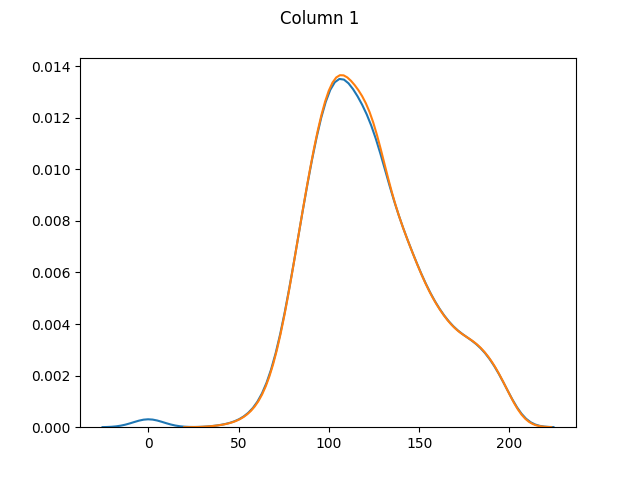
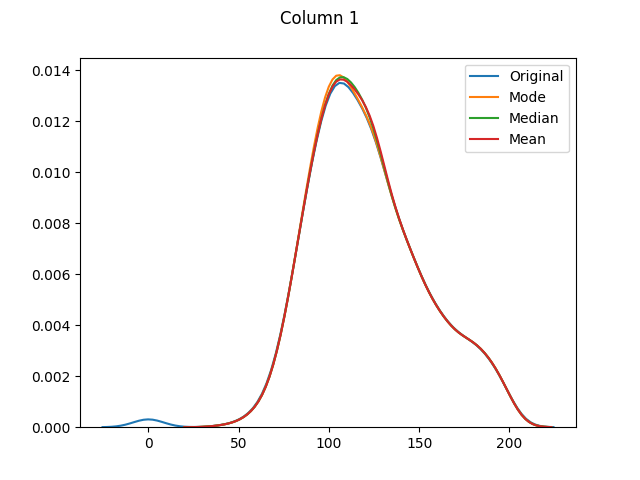
Fill missing data with mean, mode and median

diff --git a/missing_data.py b/missing_data.py
@@ -27,7 +27,7 @@ print("---------------------")
 print((dataset[[1,2,3,4,5,6,7]] == 0).sum())
 print
 
-# count the number of NaN values in each column
+# count the number of NaN values (using isnull) in each column
 print("Number of missing fields (original)")
 print("-----------------------------------")
 print(dataset.isnull().sum())
@@ -39,38 +39,56 @@ print("---------------------")
 print(dataset.describe())
 print
 
-fixed_dataset = dataset.copy()
+# Make a copy of the dataset so we can compare original & replaced
+replaced_dataset = dataset.copy()
 
 # mark zero values as NaN (missing)
-fixed_dataset[[1,2,3,4,5]] = fixed_dataset[[1,2,3,4,5]].replace(0, numpy.NaN)
+replaced_dataset[[1,2,3,4,5]] = replaced_dataset[[1,2,3,4,5]].replace(0, numpy.NaN)
 
 print("Number of missing fields (zero fields flagged as NaN)")
 print("-----------------------------------------------------")
-print(fixed_dataset.isnull().sum())
+print(replaced_dataset.isnull().sum())
 print
 
 # Show the stats of the dataset
 print("Statistics (pre-fill)")
 print("---------------------")
-print(fixed_dataset[[1,2,3,4,5]].describe())
+print(replaced_dataset[[1,2,3,4,5]].describe())
 print
 
+# Make copies of the dataset so we can compare them
+mean_dataset = replaced_dataset.copy()
+mode_dataset = replaced_dataset.copy()
+median_dataset = replaced_dataset.copy()
+
 # fill missing values with mean column values
-fixed_dataset.fillna(value=dataset.mean(), inplace=True)
+mean_dataset.fillna(value=replaced_dataset.mean(), inplace=True)
 
 # count the number of NaN values in each column
 print("Number of missing fields (post-fill)")
 print("------------------------------------")
-print(fixed_dataset.isnull().sum())
+print(mean_dataset.isnull().sum())
 print
 
 # Show the stats of the dataset
 print("Statistics (post-fill)")
 print("----------------------")
-print(fixed_dataset[[1,2,3,4,5]].describe())
+print(mean_dataset[[1,2,3,4,5]].describe())
+print
 
+# fill missing values with column mode value
+mode_dataset.fillna(value=replaced_dataset.mode(numeric_only=True).iloc[0], inplace=True)
+
+# fill missing values with column median value
+median_dataset.fillna(value=replaced_dataset.median(), inplace=True)
+
+# Use Seaborn to plot before & after graphs for columns 1 - 5
 for i in range(1, 6):
-    sb.distplot(dataset[[i]], hist=False)
-    sb.distplot(fixed_dataset[[i]], hist=False)
+    sb.distplot(dataset[[i]], hist=False, label='Original')
+    # Cannot plot datasets with NaN values
+    #sb.distplot(replaced_dataset[[i]], hist=False, label='Replaced')
+    sb.distplot(mode_dataset[[i]], hist=False, label='Mode')
+    sb.distplot(median_dataset[[i]], hist=False, label='Median')
+    sb.distplot(mean_dataset[[i]], hist=False, label='Mean')
     plt.suptitle('Column ' + str(i))
     plt.show()

diff --git a/README.md b/README.md
@@ -31,6 +31,8 @@ The table of contents is as follows:
     * [fillna](#fillna)
     * [isnull](#isnull)
     * [mean](#mean)
+    * [median](#median)
+    * [mode](#mode)
     * [replace](#replace)
 * [More on processing missing data](#more-on-processing-missing-data)
 * [To Do](#to-do)
@@ -130,7 +132,7 @@ It looks like the only problems areas are columns 1,
 According to the tutorial, it is standard practice in Python (specifically Pandas,
 NumPy and Scikit-Learn) to mark missing values as NaN.
 
-Frstly, check for missing values using the Pandas [isnull](#isnull) function before
+Firstly, check for missing values using the Pandas [isnull](#isnull) function before
 doing any data munging:
 
 ```bash
@@ -273,9 +275,15 @@ Various useful links (and comments) are listed below.
 
     http://seaborn.pydata.org/generated/seaborn.distplot.html
 
+Will throw a `ValueError` for missing data:
+
+    ValueError: array must not contain infs or NaNs
+
 #### fillna
 
     http://pandas.pydata.org/pandas-docs/stable/generated/pandas.DataFrame.fillna.html
+
+Fill in NA / NaN values.
 
 #### isnull
 
@@ -289,6 +297,20 @@ Detects missing values - such as `NaN` in numeric arrays, `None` or `NaN` in obj
 
 Note that the default value for __skipna__ is ___True___, which means invalid data
 will be ignored when calculating the column mean.
+
+#### median
+
+    http://pandas.pydata.org/pandas-docs/stable/generated/pandas.DataFrame.median.html
+
+Note that the default value for __skipna__ is ___True___, which means invalid data
+will be ignored when calculating the column median.
+
+#### mode
+
+    http://pandas.pydata.org/pandas-docs/stable/generated/pandas.DataFrame.mode.html
+
+Note that multiple values may be returned for the selected axis.
+Also that the default value for __numeric\_only__ is ___False___.
 
 #### replace
 
@@ -310,6 +332,9 @@ missing data with `sklearn`:
 ## To Do
 
 - [x] Add a Snyk.io vulnerability scan badge
+- [x] Graph before and after (mean, median and mode) values
+- [ ] Generate a [Monte Carlo](http://en.wikipedia.org/wiki/Monte_Carlo_method) style missing-data dataset
+      and evaluate how it performs (in comparison to its non-missing-data original)
 - [ ] Finish tutorial
 
 ## Credits
